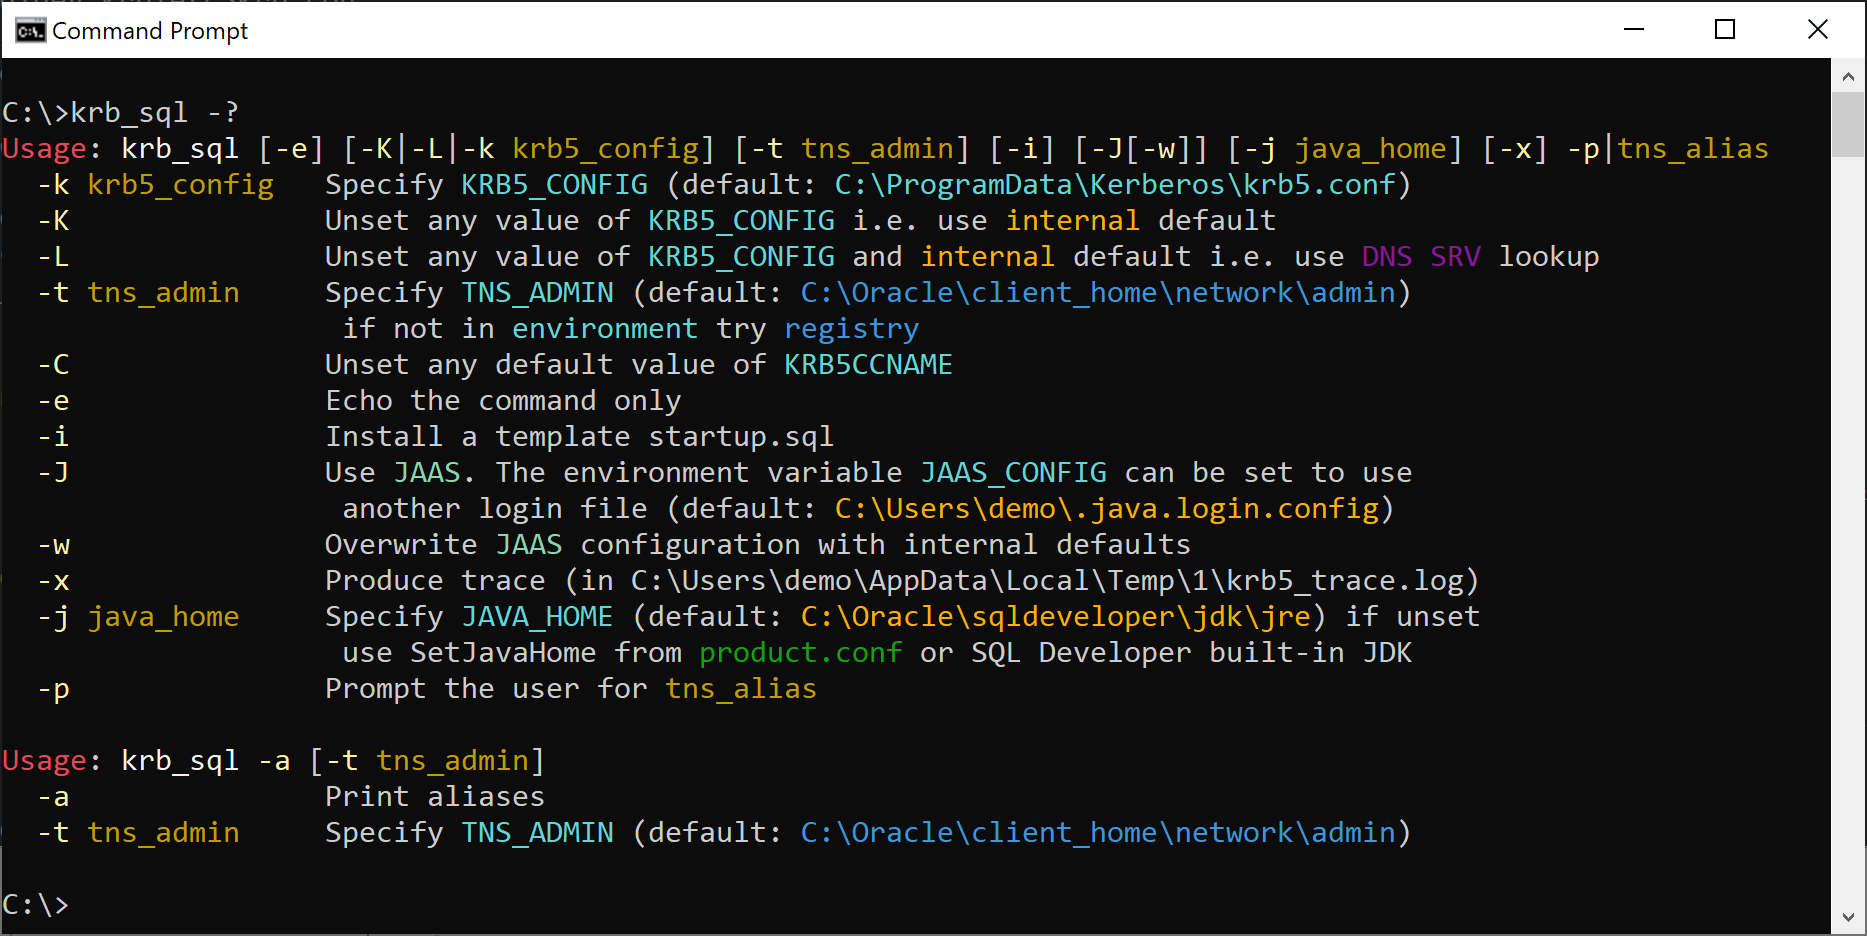
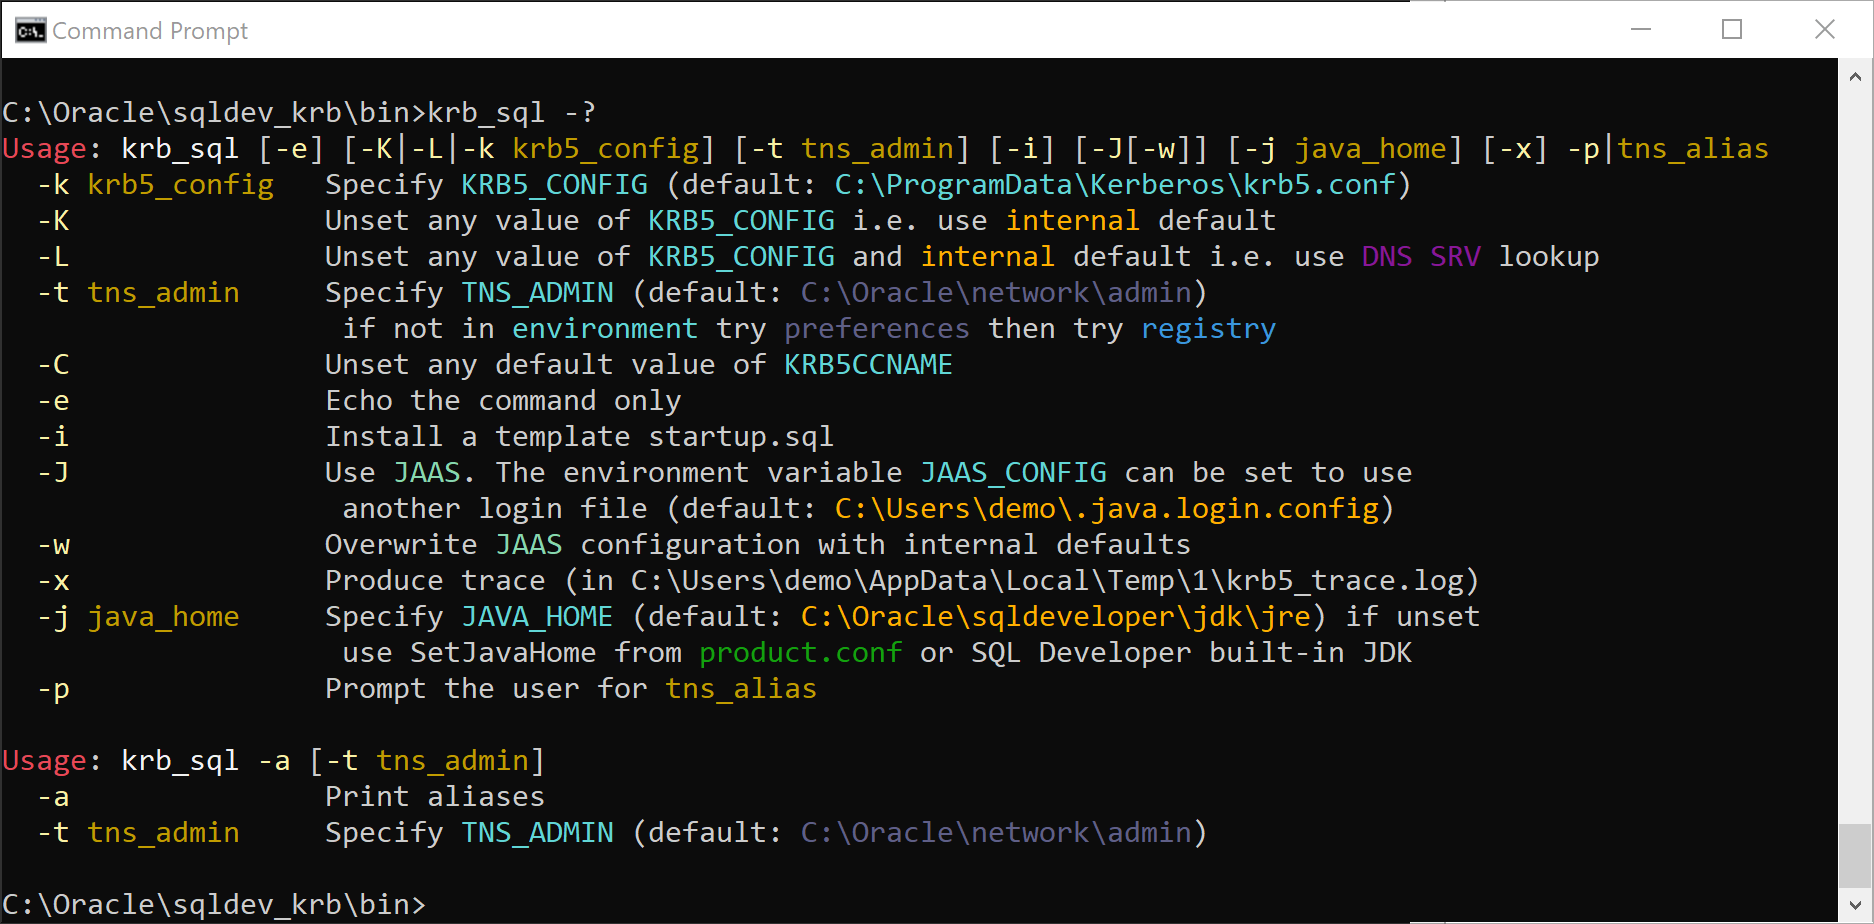
krb_sql - more clever handlin of TNS_ADMIN. krb_conf: add KERBEROS parameters to prefrences file

diff --git a/README.md b/README.md
@@ -93,7 +93,7 @@ We have the option for JAAS to use a keytab to create its own credential cache.
     </kbd>
 </p>
 
-In this example, we specify a later Java home in order that the -f options can be used to fetch the seed used for the principal from the KDC.
+In this example, we specify a later Java home in order that the **-f** option can be used to fetch the seed used for the principal from the KDC.
 
 <p align="center" spacing="10">
     <kbd>
@@ -361,9 +361,9 @@ Oracle {
   debug=false;
 };
 ```
-The following command shows login to SQLcl using JAAS (**-j**)
+The following command shows login to SQLcl using JAAS (**-J**)
 
-<pre class=console><code>> <b>krb_sql -j -x  -k C:\Oracle\sqldeveloper\jdk\jre\conf\security\krb5.conf -t C:\Oracle\network\admin OMS</b>
+<pre class=console><code>> <b>krb_sql -J -x  -k C:\Oracle\sqldeveloper\jdk\jre\conf\security\krb5.conf -t C:\Oracle\network\admin OMS</b>
 
 Picked up JAVA_TOOL_OPTIONS: -Djava.security.auth.login.config=C:\Users\demo\.java.login.config -Doracle.net.KerberosJaasLoginModule=Oracle
 
@@ -394,7 +394,7 @@ Note that appropriate Java properties have been set in the `JAVA_TOOL_OPTIONS` e
 A useful way to check what wil be run is to use the *echo* mode to print the command and any factors affecting execution:
 
 
-<pre class=console><code>> <b>krb_sql -e -j -x -k C:\Oracle\sqldeveloper\jdk\jre\conf\security\krb5.conf -t C:\Oracle\network\admin OMS</b>
+<pre class=console><code>> <b>krb_sql -e -J -x -k C:\Oracle\sqldeveloper\jdk\jre\conf\security\krb5.conf -t C:\Oracle\network\admin OMS</b>
 KRB5_CONFIG=C:\Oracle\sqldeveloper\jdk\jre\conf\security\krb5.conf
 KRB5CCNAME=C:\Users\demo\AppData\Local\krb5cc_demo
 TNS_ADMIN=C:\Oracle\network\admin
@@ -404,7 +404,7 @@ sql -kerberos -thin -noupdates -tnsadmin C:\Oracle\network\admin -krb5_config C:
 
 Another example - this shows that without overriding the location of the kerberos configuration file setting from the command line (**-k**) the system configuration file has been picked up from the environment variable `KRB5_CONFIG`. This may not give us the login required.
 
-<pre class=console><code>> <b>krb_sql -e -j -x -t C:\Oracle\network\admin OMS</b>
+<pre class=console><code>> <b>krb_sql -e -J -x -t C:\Oracle\network\admin OMS</b>
 KRB5_CONFIG=C:\ProgramData\Kerberos\krb5.conf
 KRB5CCNAME=C:\Users\demo\AppData\Local\krb5cc_demo
 TNS_ADMIN=C:\Oracle\network\admin
@@ -422,18 +422,21 @@ In common with the other programs in this package, type the [help](#krb_sql) opt
 
 ### krb_conf
 ```text
-Usage: krb_conf [-h sqldev_home [-H]] [-c krb5ccname] [-J java_home [-w]]|-u] [-p] [-r] [-E]
+Usage: krb_conf [-h sqldev_home [-H]] [-c krb5ccname] [-j java_home [-w]]|-u] [-p|-P] [-r] [-E] [-t file] [-V]
   -h sqldev_home   Specify SQL Developer home to override SQLDEV_HOME (default: C:\Oracle\sqldeveloper)
-  -H               Set sqldev_home in the system wide environment
+  -H               Set sqldev_home environment variable in the registry, first
+                    attempt HKEY_LOCAL_MACHINE and fallback to HKEY_CURRENT_USER
   -c krb5ccname    Specify KRB5CCNAME (default: FILE:%{LOCAL_APPDATA}/krb5cc_%{username})
-  -p               Update KERBEROS_CACHE and KERBEROS_CONFIG in product-preferences
+  -p               Update product-preferences
+  -P               Clear product-preferences
   -r               Resolve krb5.conf parameters
   -v               Print SQL Developer version and exit
   -E               Escape rather than canonicalize paths for preferences files
-  -J java_home     Specify JAVA_HOME (default: C:\Oracle\sqldeveloper\jdk\jre) if unset
+  -j java_home     Specify JAVA_HOME (default: C:\Oracle\sqldeveloper\jdk\jre) if unset
                     use SetJavaHome from product.conf or SQL Developer built-in JDK
   -w               Write value of java_home to product.conf
   -u               Unset java_home in product.conf
+  -t file          Install and use file as a template krb5.conf
   -V               Print Java version and exit
 ```
 
@@ -448,7 +451,7 @@ Usage: krb_kdestroy [-c] [-k]
 
 ### krb_kinit
 ```text
-Usage: krb_kinit [-e] [-D] [-V] [-M|-J java_home] [-x] [-C|-c krb5ccname] [-K|-k [-t krb5_ktname]] [principal_name]
+Usage: krb_kinit [-e] [-D] [-V] [-M|-j java_home] [-x] [-C|-c krb5ccname] [-K|-k [-t krb5_ktname]] [principal_name]
   -c krb5ccname    Specify KRB5CCNAME (default: C:\Users\demo\AppData\Local\krb5cc_demo)
   -C               Unset any default value of KRB5CCNAME
   -k               Use default keytab KRB5_KTNAME (default: C:\Users\demo\AppData\Local\krb5_demo.keytab)
@@ -458,14 +461,14 @@ Usage: krb_kinit [-e] [-D] [-V] [-M|-J java_home] [-x] [-C|-c krb5ccname] [-K|-k
   -x               Produce trace (in C:\Users\demo\AppData\Local\Temp\1\krb5_trace.log)
   -D               Turn on krb5.debug
   -M               Use MIT Kerberos
-  -J java_home     Specify JAVA_HOME (default: C:\Oracle\sqldeveloper\jdk\jre) if unset
+  -j java_home     Specify JAVA_HOME (default: C:\Oracle\sqldeveloper\jdk\jre) if unset
                     use SetJavaHome from product.conf or SQL Developer built-in JDK
   -V               Print Java version and exit
 ```
 
 ### krb_klist
 ```text
-Usage: krb_klist [-M|-J java_home] [-e] [-V] [-c|-k] [name]
+Usage: krb_klist [-M|-j java_home] [-e] [-V] [-c|-k] [name]
   -c               Specifies credential cache KRB5CCNAME (default: C:\Users\demo\AppData\Local\krb5cc_demo)
   -k               Specifies keytab KRB5_KTNAME (default: C:\Users\demo\AppData\Local\krb5_demo.keytab)
   -e               Echo the command only
@@ -473,7 +476,7 @@ Usage: krb_klist [-M|-J java_home] [-e] [-V] [-c|-k] [name]
   -D               Turn on krb5.debug
   -M               Use MIT Kerberos
   -V               Print Java version and exit
-  -J java_home     Specify JAVA_HOME (default: C:\Oracle\sqldeveloper\jdk\jre) if unset
+  -j java_home     Specify JAVA_HOME (default: C:\Oracle\sqldeveloper\jdk\jre) if unset
                     use SetJavaHome from product.conf or SQL Developer built-in JDK
   name             The cache or keytab of which to list the contents
 When no cache or keytab is specified the default action is to search for all credential caches
@@ -481,7 +484,7 @@ When no cache or keytab is specified the default action is to search for all cre
 
 ### krb_ktab
 ```text
-Usage: krb_ktab [-e] [-V] [-x] [-A] [-s salt|-f] [-K|-k krb5_ktname] [-J java_home] [-p] [-x] [principal_name]
+Usage: krb_ktab [-e] [-V] [-x] [-A] [-s salt|-f] [-K|-k krb5_ktname] [-j java_home] [-p] [-x] [principal_name]
   -k krb5_ktname   Specify keytab KRB5_KTNAME (default: C:\Users\demo\AppData\Local\krb5_demo.keytab)
   -K               Unset any default value of KRB5_KTNAME
   -A               New keys are appended to keytab
@@ -490,10 +493,10 @@ Usage: krb_ktab [-e] [-V] [-x] [-A] [-s salt|-f] [-K|-k krb5_ktname] [-J java_ho
   -v               Verbose messages
   -D               Turn on krb5.debug
   -x               Produce trace (in C:\Users\demo\AppData\Local\Temp\1\krb5_trace.log)
-  -s salt          Specify the salt to use
+  -s salt          Specify the salt to use e.g. if sAMAccountName does not match userPrincipalName
   -f               Request salt from KDC
   -V               Print Java version and exit
-  -J java_home     Specify JAVA_HOME (default: C:\Oracle\sqldeveloper\jdk\jre) if unset
+  -j java_home     Specify JAVA_HOME (default: C:\Oracle\sqldeveloper\jdk\jre) if unset
                     use SetJavaHome from product.conf or SQL Developer built-in JDK
   Options -s and -f only supported with Java >=19
 ```
@@ -513,27 +516,26 @@ Usage: krb_pkinit [-e] [-x] [-C|-c krb5ccname>] [-d dir] [-D dir] [-A dir]
 
 ### krb_sql
 ```text
-Usage: krb_sql [-e] [-K|-L|-k krb5_config] [-t tns_admin] [-i] [-j[-w]] [-J java_home] [-x] -p|tns_alias
+Usage: krb_sql [-e] [-K|-L|-k krb5_config] [-t tns_admin] [-i] [-J[-w]] [-j java_home] [-x] -p|tns_alias
   -k krb5_config   Specify KRB5_CONFIG (default: C:\ProgramData\Kerberos\krb5.conf)
   -K               Unset any value of KRB5_CONFIG i.e. use internal default
   -L               Unset any value of KRB5_CONFIG and internal default i.e. use DNS SRV lookup
-  -t tns_admin     Specify TNS_ADMIN (default: C:\Oracle\client_home\network\admin)
-                    if not in environment try registry
-  -c krb5ccname    Specify KRB5CCNAME (default: C:\Users\demo\AppData\Local\krb5cc_demo)
+  -t tns_admin     Specify TNS_ADMIN (default: C:\Oracle\network\admin)
+                    if not in environment try preferences then try registry
   -C               Unset any default value of KRB5CCNAME
   -e               Echo the command only
   -i               Install a template startup.sql
-  -j               Use JAAS. The environment variable JAAS_CONFIG can be set to use
+  -J               Use JAAS. The environment variable JAAS_CONFIG can be set to use
                     another login file (default: C:\Users\demo\.java.login.config)
   -w               Overwrite JAAS configuration with internal defaults
   -x               Produce trace (in C:\Users\demo\AppData\Local\Temp\1\krb5_trace.log)
-  -J java_home     Specify JAVA_HOME (default: C:\Oracle\sqldeveloper\jdk\jre) if unset
+  -j java_home     Specify JAVA_HOME (default: C:\Oracle\sqldeveloper\jdk\jre) if unset
                     use SetJavaHome from product.conf or SQL Developer built-in JDK
   -p               Prompt the user for tns_alias
 
 Usage: krb_sql -a [-t tns_admin]
   -a               Print aliases
-  -t tns_admin     Specify TNS_ADMIN (default: C:\Oracle\client_home\network\admin)
+  -t tns_admin     Specify TNS_ADMIN (default: C:\Oracle\network\admin)
 ```
 
 ## Building MIT Kerberos with PKINIT Enabled for Windows 11 
